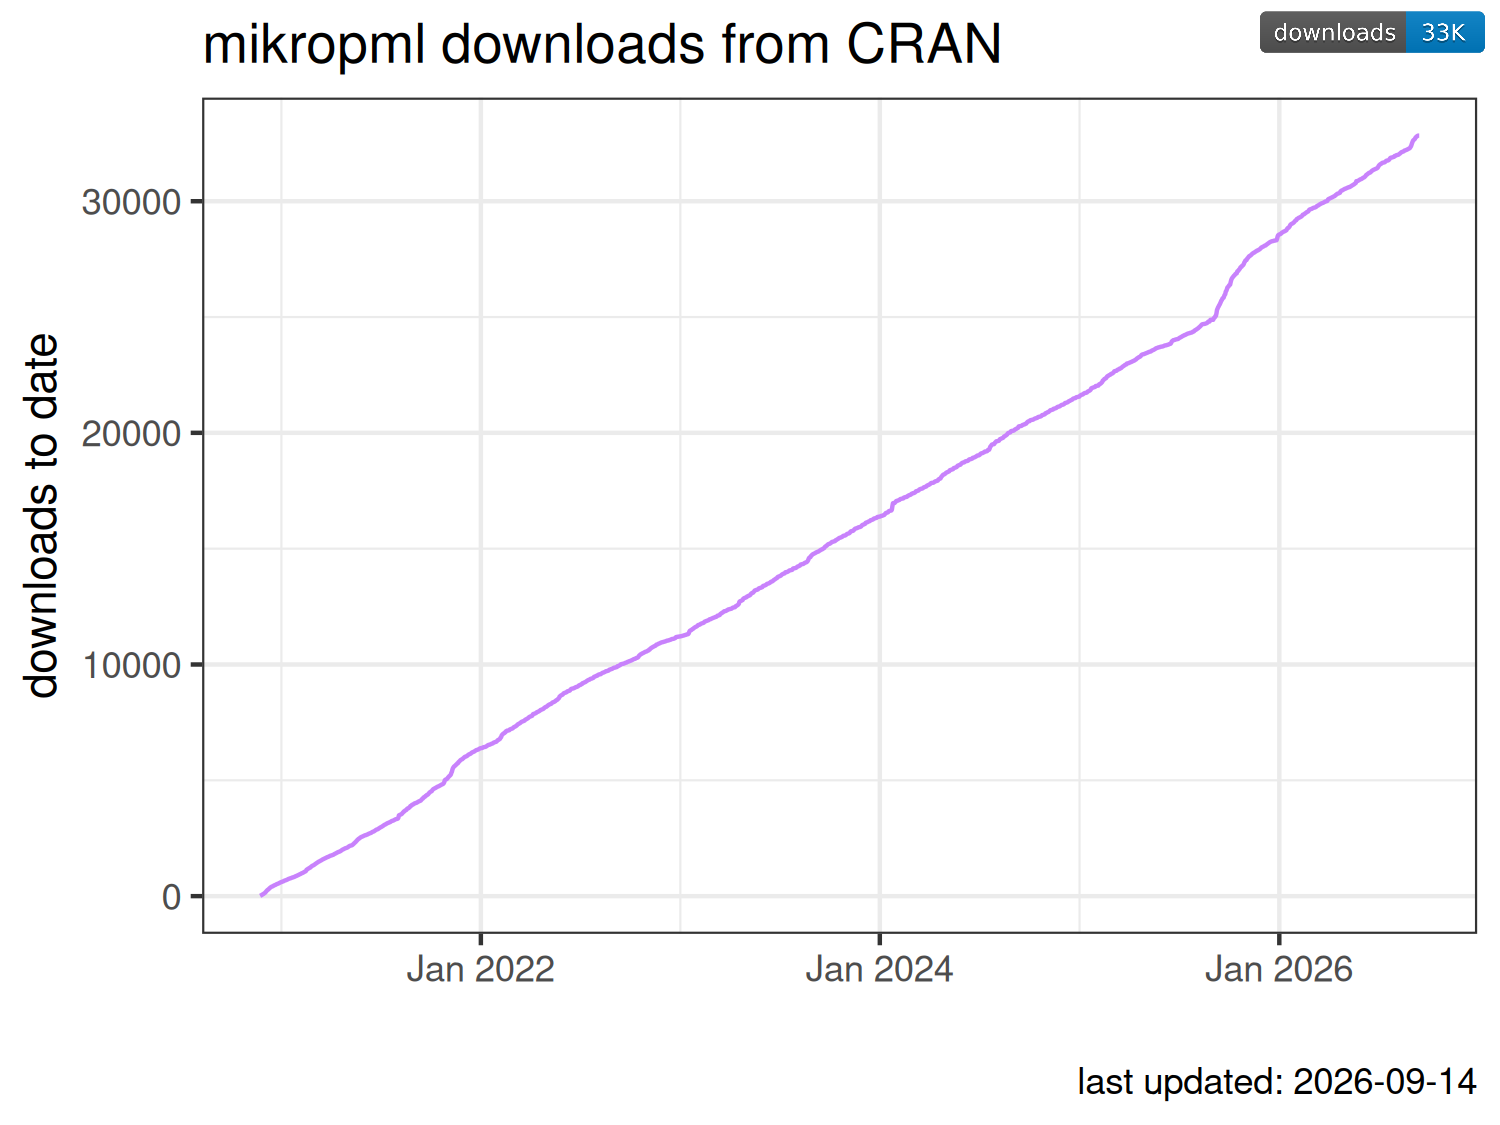
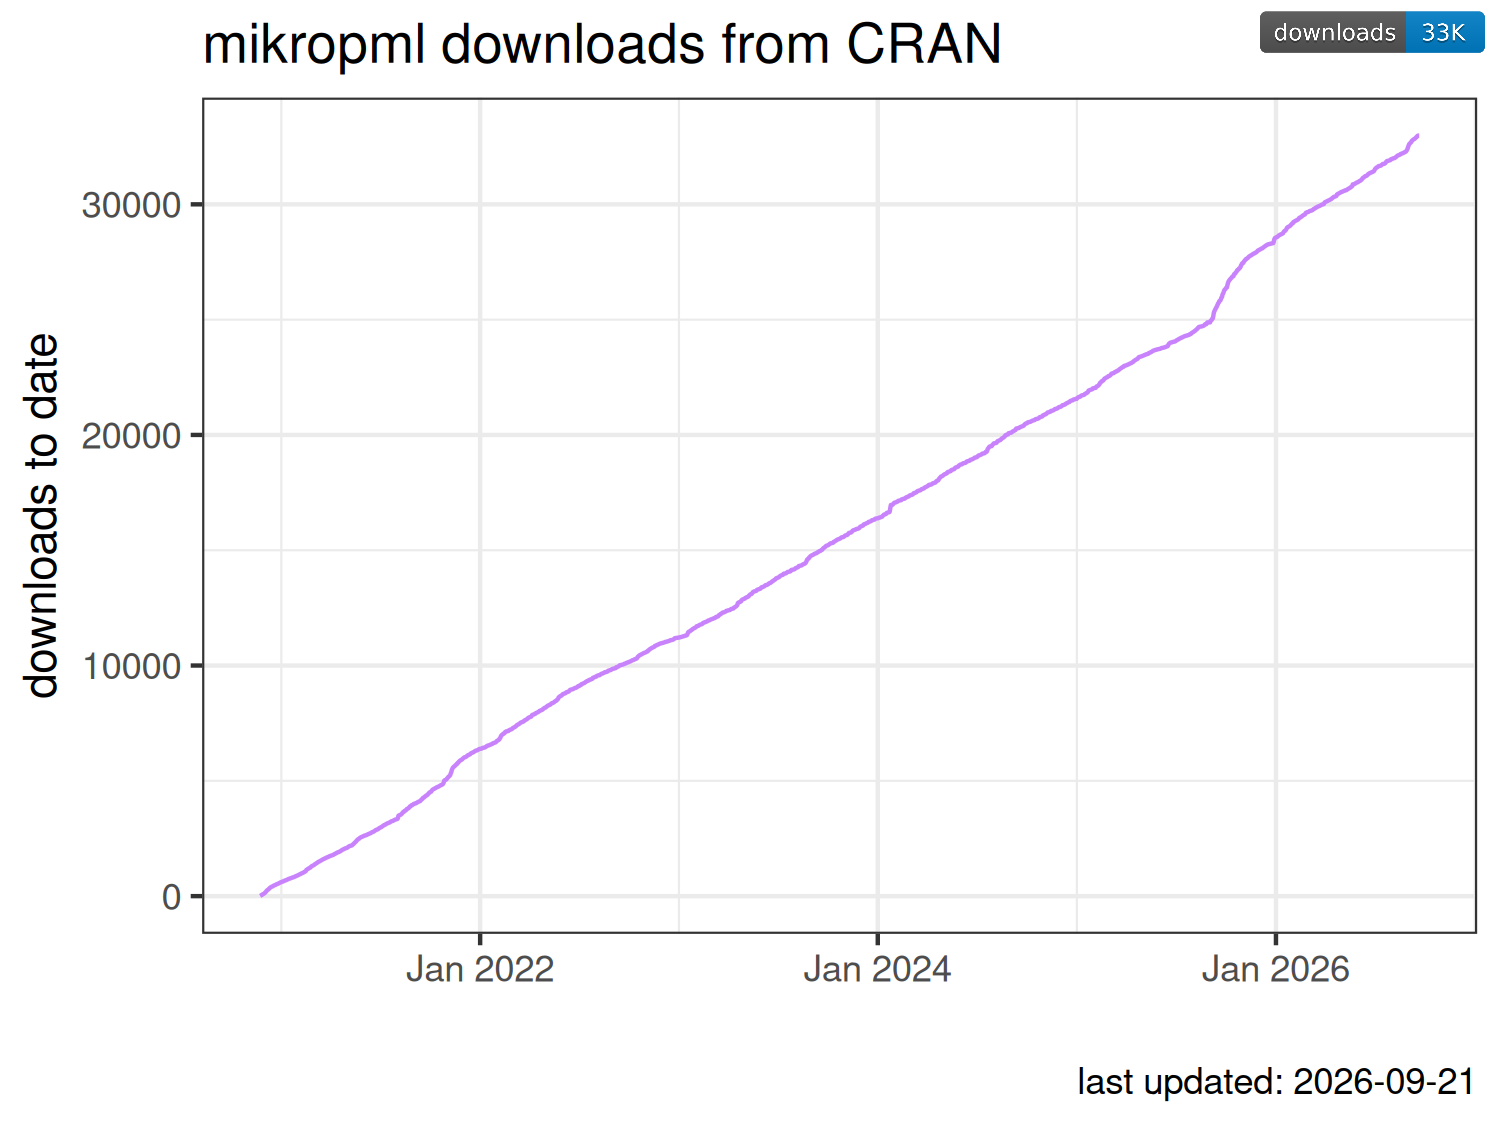
Re-build Rmarkdown files

diff --git a/README.md b/README.md
@@ -29,12 +29,12 @@ downloads <- cran_downloads(package = "mikropml",
 write_csv(downloads, here::here('data', 'downloads.csv'))
 tail(downloads)
 #>            date count  package cum_count
-#> 2117 2026-09-09    18 mikropml     32783
-#> 2118 2026-09-10    24 mikropml     32807
-#> 2119 2026-09-11    14 mikropml     32821
-#> 2120 2026-09-12    12 mikropml     32833
-#> 2121 2026-09-13     0 mikropml     32833
-#> 2122 2026-09-14     0 mikropml     32833
+#> 2124 2026-09-16    16 mikropml     32915
+#> 2125 2026-09-17    25 mikropml     32940
+#> 2126 2026-09-18    31 mikropml     32971
+#> 2127 2026-09-19    10 mikropml     32981
+#> 2128 2026-09-20     0 mikropml     32981
+#> 2129 2026-09-21     0 mikropml     32981
 ```
 
 ## Get the badge
